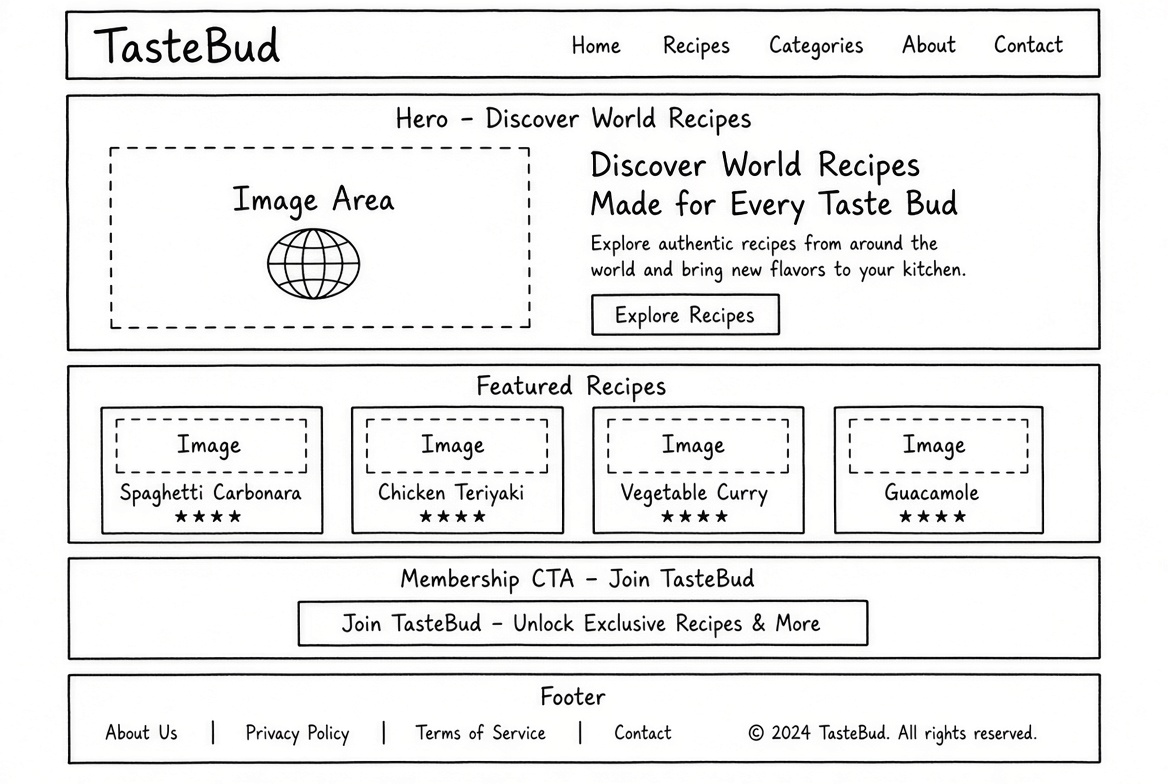
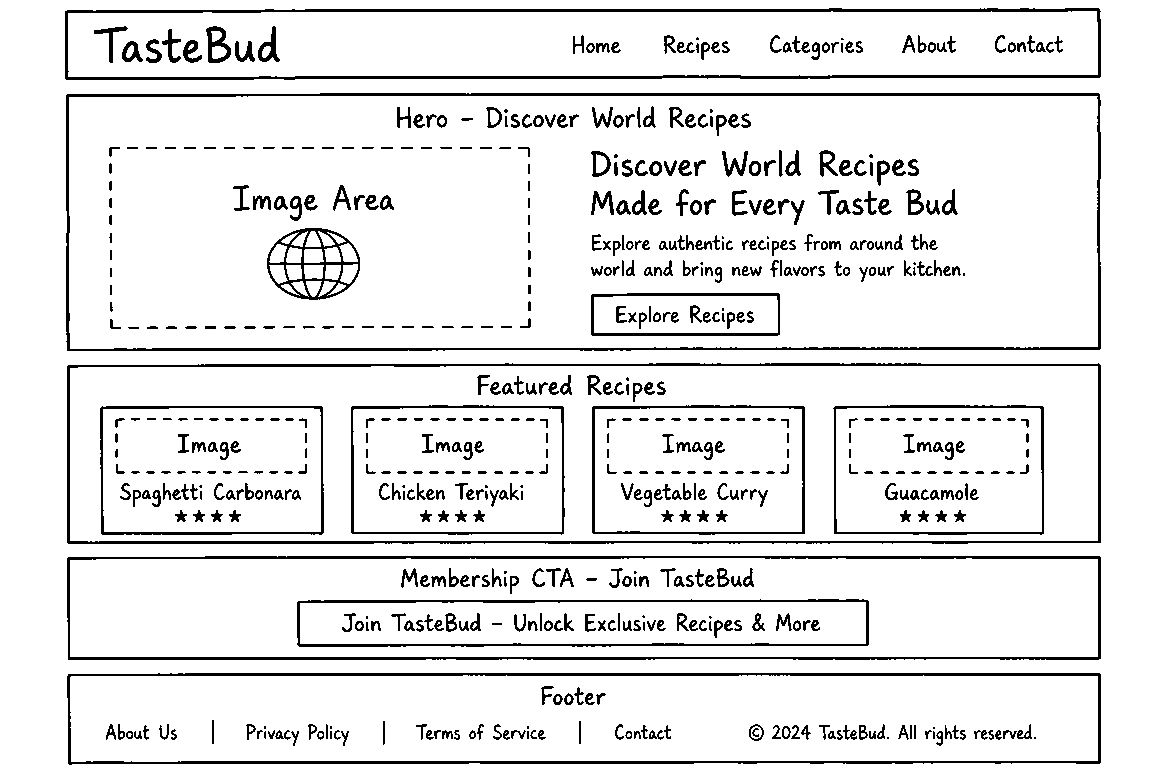
Optimize wireframes, fix contrast, externalize JS, add nav and OG tags

diff --git a/final/siteplan.html b/final/siteplan.html
@@ -10,6 +10,11 @@
     />
     <meta name="author" content="Prosper" />
 
+    <meta property="og:title" content="TasteBud — Site Plan | WDD 231 Individual Project" />
+    <meta property="og:description" content="The planning document for TasteBud, a world-recipe discovery site: site name, purpose, scenarios, color schema, typography, and home-page wireframes." />
+    <meta property="og:image" content="https://prosperhermeon.github.io/wdd231/final/images/favicon.svg" />
+    <meta property="og:url" content="https://prosperhermeon.github.io/wdd231/final/siteplan.html" />
+
     <link rel="icon" href="images/favicon.svg" type="image/svg+xml" />
     <link rel="preconnect" href="https://fonts.googleapis.com" />
     <link rel="preconnect" href="https://fonts.gstatic.com" crossorigin />
@@ -23,7 +28,9 @@
   <body>
     <header class="plan-header">
       <div class="plan-header-inner">
-        <a href="index.html" class="back-link">&larr; Back to TasteBud</a>
+        <nav aria-label="Site plan navigation">
+          <a href="index.html" class="back-link">&larr; Back to TasteBud</a>
+        </nav>
         <h1>TasteBud — Site Plan</h1>
         <p class="subtitle">WDD 231 Individual Project &middot; Prosper</p>
       </div>
@@ -194,9 +201,6 @@
       </p>
     </footer>
 
-    <script>
-      document.getElementById("currentyear").textContent =
-        new Date().getFullYear();
-    </script>
+    <script src="scripts/siteplan.js" defer></script>
   </body>
 </html>

diff --git a/final/styles/siteplan.css b/final/styles/siteplan.css
@@ -234,7 +234,7 @@ a:focus-visible {
   font-size: 1.2rem;
   font-weight: 600;
   margin-top: 0.3rem !important;
-  color: var(--clr-primary);
+  color: var(--clr-primary-dark);
 }
 
 .sample-body {

diff --git a/final/scripts/siteplan.js b/final/scripts/siteplan.js
@@ -1,0 +1,1 @@
+document.getElementById("currentyear").textContent = new Date().getFullYear();
